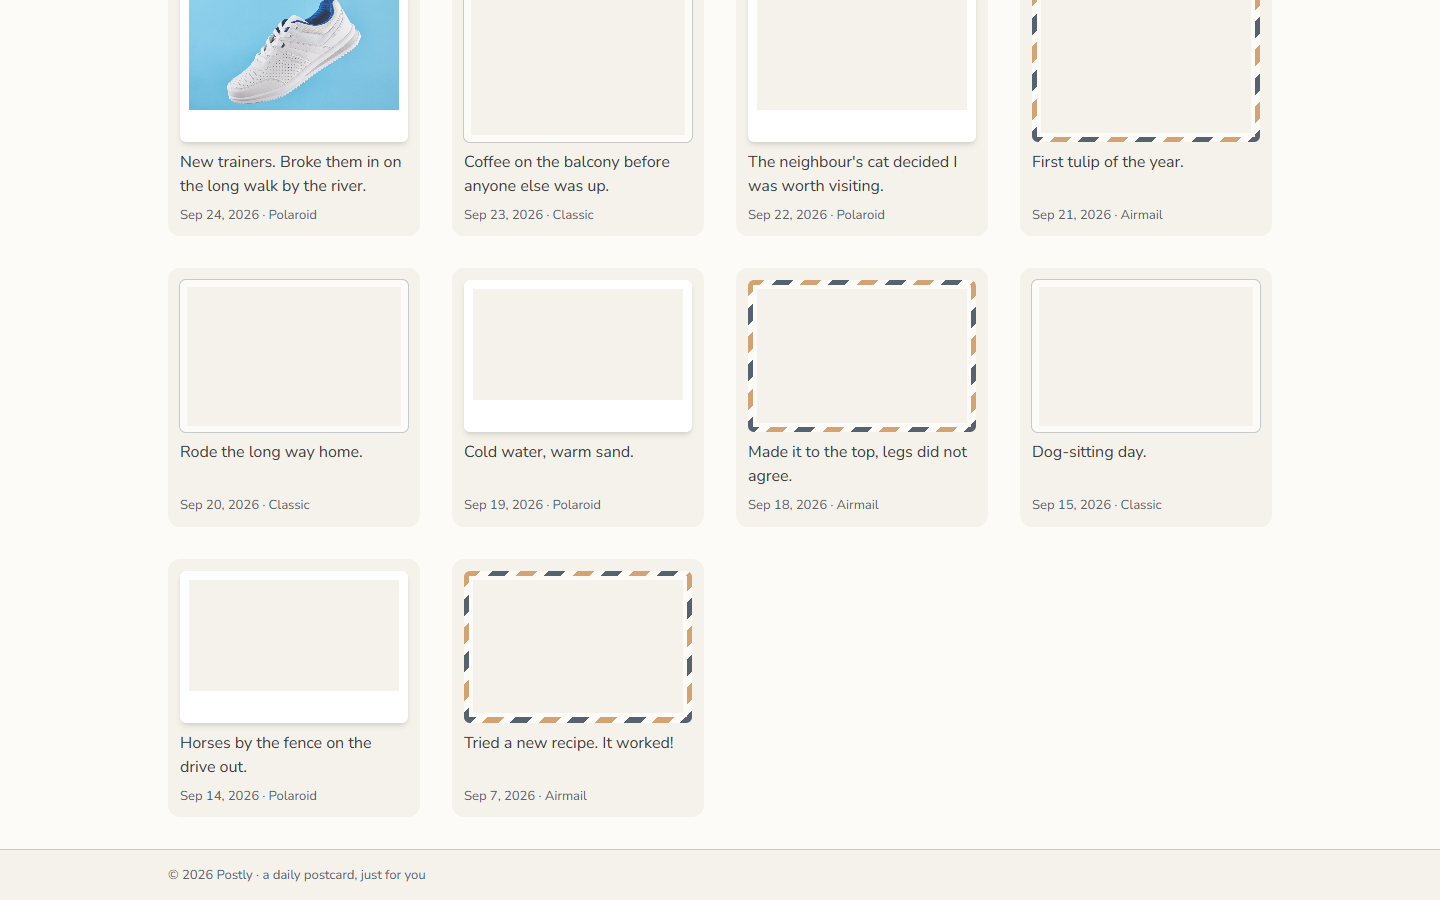
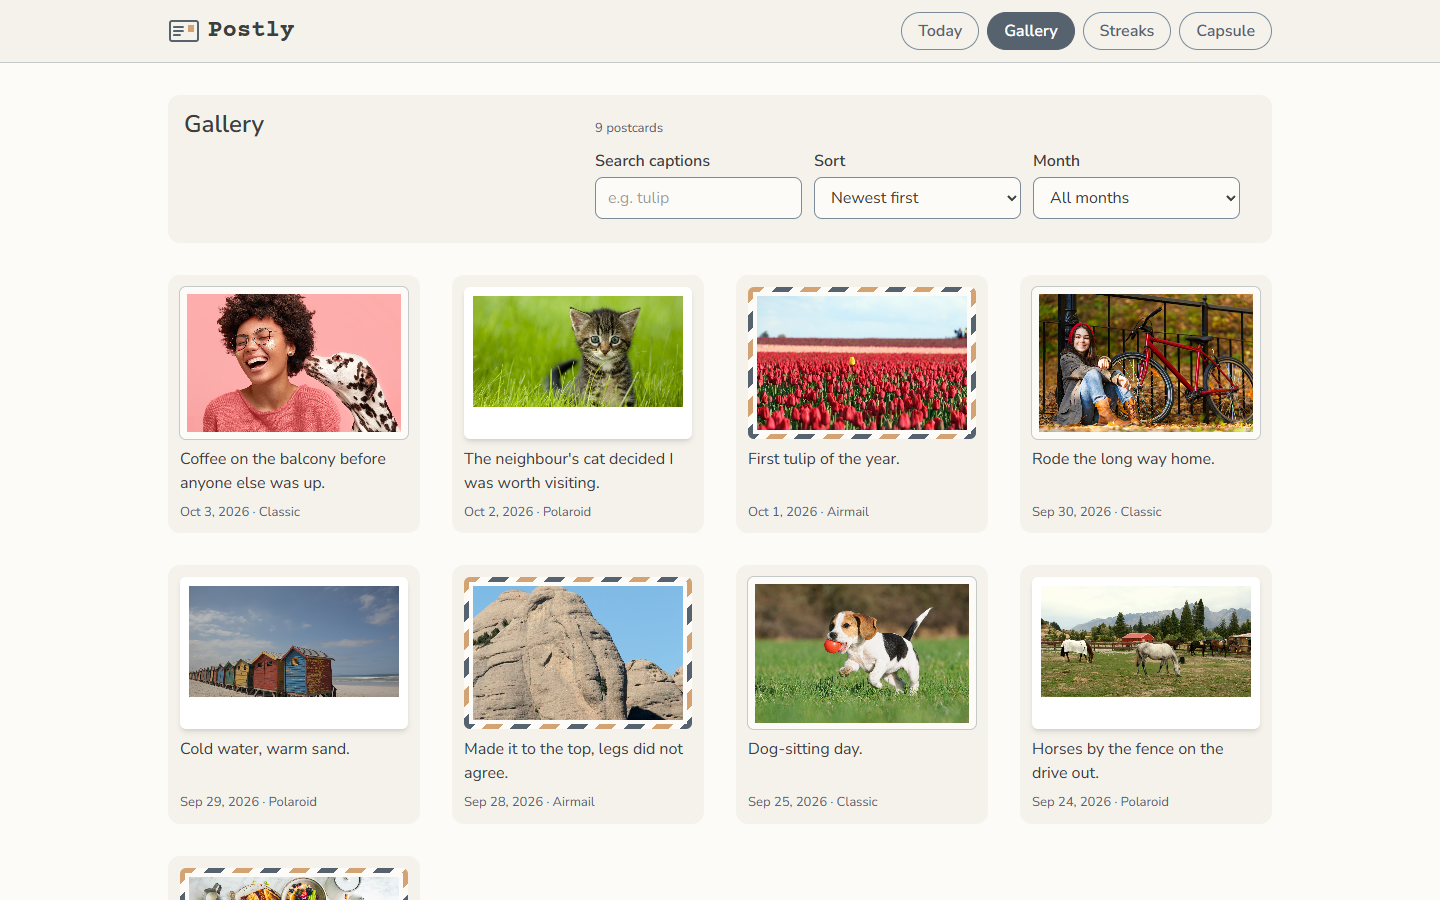
docs: document finished capsule and gallery search

diff --git a/README.md b/README.md
@@ -6,7 +6,7 @@ Built with help from **Claude Code (Anthropic)**. See [AI-USAGE.md](AI-USAGE.md)
 
 ## 1. Overview
 
-Postly is a private daily postcard journal. Once a day you upload one photo, pick a postcard template, write a short caption, and save it. Your postcards build up into a gallery (and, from week 2, a streak calendar and a "future you" time capsule). It's for anyone who wants a daily photo-and-reflection habit without posting to social media.
+Postly is a private daily postcard journal. Once a day you upload one photo, pick a postcard template, write a short caption, and save it. Your postcards build up into a searchable gallery and a streak calendar, and you can seal one in a "future you" time capsule with a note to open on a later date. It's for anyone who wants a daily photo-and-reflection habit without posting to social media.
 
 Stack: React 19 + Vite + Tailwind CSS · Express 5 · PostgreSQL · Cloudinary (image hosting).
 
@@ -25,7 +25,7 @@ During the PostgreSQL install you set a password for the `postgres` user. You'll
 ### Get the code and install dependencies
 
 ```bash
-git clone <your-repo-url> postly
+git clone https://github.com/kurtzk10/postly.git
 cd postly
 npm install        # installs the root tools, then server/ and client/ automatically
 ```
@@ -34,7 +34,17 @@ Every command in this README runs from the project root (`postly/`).
 
 ### Environment variables
 
-Both folders have a `.env.example`. Copy each one to `.env` and fill in real values. `.env` files are git-ignored; never commit them.
+Both folders have a `.env.example`. Copy each one to `.env`, then open the two new files and fill in real values. `.env` files are git-ignored; never commit them.
+
+```bash
+# Windows (PowerShell)
+Copy-Item server/.env.example server/.env
+Copy-Item client/.env.example client/.env
+
+# macOS / Linux
+cp server/.env.example server/.env
+cp client/.env.example client/.env
+```
 
 **`server/.env`**
 
@@ -50,7 +60,7 @@ Both folders have a `.env.example`. Copy each one to `.env` and fill in real val
 | --- | --- | --- |
 | `VITE_API_URL` | `http://localhost:4000` | Where the API is running |
 | `VITE_CLOUDINARY_CLOUD_NAME` | `your-cloud-name` | Shown on your Cloudinary dashboard |
-| `VITE_CLOUDINARY_UPLOAD_PRESET` | `postly_unsigned` | An **unsigned** upload preset |
+| `VITE_CLOUDINARY_UPLOAD_PRESET` | `your-unsigned-preset` | The name of an **unsigned** upload preset |
 
 To create the upload preset: Cloudinary console → Settings → Upload → Upload presets → Add upload preset → set *Signing mode* to **Unsigned** → save, then copy its name. Unsigned means the browser can upload without a secret key, so no Cloudinary secret is ever in this project.
 
@@ -105,6 +115,13 @@ You can only make one postcard per day. Once today's is saved, `/capture` shows 
 
 Every postcard, newest first, with its caption, date and template. 4 per row on desktop, 2 on tablets, 1 on small phones. If you have none yet, a link takes you back to `/capture`.
 
+The toolbar above the grid narrows it down. On a phone, tap **Filters** to show it.
+- **Search captions:** type part of a word; upper and lower case don't matter. Results update a moment after you stop typing.
+- **Sort:** newest or oldest first.
+- **Month:** only postcards from one month. The list only offers months you have postcards in.
+
+If nothing matches, the gallery says so, with a **Clear filters** button.
+
 ### Postcard detail (`/gallery/:id`)
 
 Click (or Tab to and press Enter on) any card to open it in a detail view over the gallery. The address changes to `/gallery/12`, so you can bookmark or share a single postcard. It's full screen on phones.
@@ -124,11 +141,14 @@ Click (or Tab to and press Enter on) any card to open it in a detail view over t
 
 Postcards open in the same detail view as the gallery, at `/streaks/:id`, and closing it brings you back to `/streaks`. If you delete a postcard from there, the streak updates straight away.
 
-### Time capsule (`/capsule`), in progress
+### Time capsule (`/capsule`)
 
-Seal one of your postcards with a message to future you, and pick the day it unlocks. Until then the capsule sits in **the vault** with a blurred photo and a countdown ("opens in 42 days"). From its unlock day it shows **Open now**.
+- **Seal a capsule:** pick one of your postcards, write a message to future you (up to 500 characters), and choose the day it unlocks (tomorrow at the earliest).
+- **The vault:** your capsules, soonest to unlock first. Locked ones show a blurred photo and a countdown ("opens in 42 days"). The message stays on the server until the unlock day, so it can't be peeked at.
+- **Open now** appears from the unlock day. It shows the message in a pop-up, and afterwards the button says **Read again**.
+- **Flashback:** a past postcard. It's the one from exactly a year ago if you have it, otherwise a random older one. **Shuffle** picks another.
 
-**Working now:** the vault lists your capsules, with locked ones blurred and counting down. **Still being built:** the seal form, opening a capsule to read its message, the flashback strip, and the phone layout. The API for all of it is finished; see the table below.
+On a phone the flashback comes first, then the vault, and the seal form is behind a **+ New capsule** button.
 
 ### API
 
@@ -138,7 +158,7 @@ All responses are JSON. Errors look like `{ "error": "message" }`.
 | --- | --- | --- | --- |
 | GET | `/api/health` | Server is up | 200 |
 | GET | `/api/templates` | List the postcard templates | 200 |
-| GET | `/api/postcards` | List all postcards, newest first | 200 |
+| GET | `/api/postcards` | List postcards. Optional filters: `?q=` (search captions), `?month=YYYY-MM`, `?sort=newest\|oldest`. With none, all postcards, newest first. | 200 · 400 bad filter |
 | GET | `/api/postcards/today` | Today's postcard | 200, or 404 if not made yet |
 | GET | `/api/postcards/:id` | One postcard | 200 · 400 if the id isn't a number · 404 |
 | POST | `/api/postcards` | Save today's postcard. Body: `{ "imageUrl", "caption", "templateId" }` | 201 · 400 invalid input · 409 today's already exists |
@@ -181,10 +201,11 @@ postly/
 │   │   ├── layouts/            AppLayout (header + footer around every page)
 │   │   ├── components/
 │   │   │   ├── atoms/          Button, Badge, Spinner, Label, TextArea, AppNavLink, Logo, Stamp
-│   │   │   ├── molecules/      PostcardFront/Back, PostcardCard, TemplatePicker, UploadDropzone, CameraCapture, FormField…
-│   │   │   └── organisms/      Header, Footer, CaptureForm, PostcardPreview, GalleryGrid, PostcardDetailModal
+│   │   │   ├── molecules/      PostcardFront/Back, PostcardSheet, PostcardCard, GalleryToolbar, CapsuleRow, TemplatePicker, UploadDropzone, CameraCapture, FormField…
+│   │   │   └── organisms/      Header, Footer, CaptureForm, PostcardPreview, GalleryGrid, PostcardDetailModal, StreakHeatmap, MonthCalendar, CapsuleVault, SealCapsuleForm, CapsuleRevealModal, FlashbackStrip
 │   │   ├── context/            postcards list shared by every page
 │   │   ├── api/                client.js (calls the API), cloudinary.js (uploads)
+│   │   ├── lib/                dates, image helpers, journal stats, postcard download
 │   │   └── index.css           design tokens (colours, type scale)
 │   └── .env.example
 └── docs/screenshots/
@@ -204,8 +225,21 @@ Components follow atomic design: a level only imports from the levels below it.
 **Gallery**
 ![Gallery on desktop](docs/screenshots/gallery-desktop.png)
 
+**Gallery search**: "the" in October, 3 matches
+![Gallery filtered by a search and a month](docs/screenshots/gallery-search-desktop.png)
+
 **Streaks**
 ![Streaks screen on desktop](docs/screenshots/streaks-desktop.png)
+
+**Time capsule**: the seal form, the vault (one ready, two locked and blurred) and a flashback
+![Time capsule screen on desktop](docs/screenshots/capsule-desktop.png)
+
+**Opening a capsule**
+![A capsule's message opened in a pop-up](docs/screenshots/capsule-open-desktop.png)
+
+**Time capsule on a phone**: flashback first, the form behind "+ New capsule"
+
+<img src="docs/screenshots/capsule-phone.png" alt="Time capsule screen on a phone" width="300">
 
 **Postcard detail**
 ![Postcard detail view](docs/screenshots/detail-desktop.png)
@@ -221,12 +255,10 @@ Components follow atomic design: a level only imports from the levels below it.
 
 ## 7. Known issues and next steps
 
-- **The capsule screen is in progress.** The vault lists capsules, but sealing and opening them from the page aren't wired up yet. Both work through the API.
 - **The live camera needs `localhost` or `https`.** If you open the dev server from your phone over Wi-Fi (`http://192.168...`), the browser blocks the live viewfinder, so **Take a photo** opens the phone's camera app instead.
-- **No search, sort or month filter in the gallery yet.**
 - **"Today" is the database server's date.** Postgres decides which day it is using its own timezone setting. If the server and the user are in different timezones, a postcard made late at night can count for the wrong day. This is fine locally but needs fixing before any deployment.
 - **Re-running `db:setup` or `db:seed` deletes everything.** There are no migrations yet.
-- **No user accounts.** It's a single-user app by design for now.
+- **No login yet.** It's a single-user app that only runs on your own computer. It must not go online as it is: anyone who reached it could read or delete your postcards. A login is the next step, before any deployment.
 - **No automated tests yet.** The API has been checked by hand with curl for every status code in the table above.
 - **Deleting a postcard doesn't delete its image from Cloudinary.** Doing that needs a signed API call from the server.
 - Photos uploaded to Cloudinary before you click Save stay in your Cloudinary account even if you never save the postcard.
